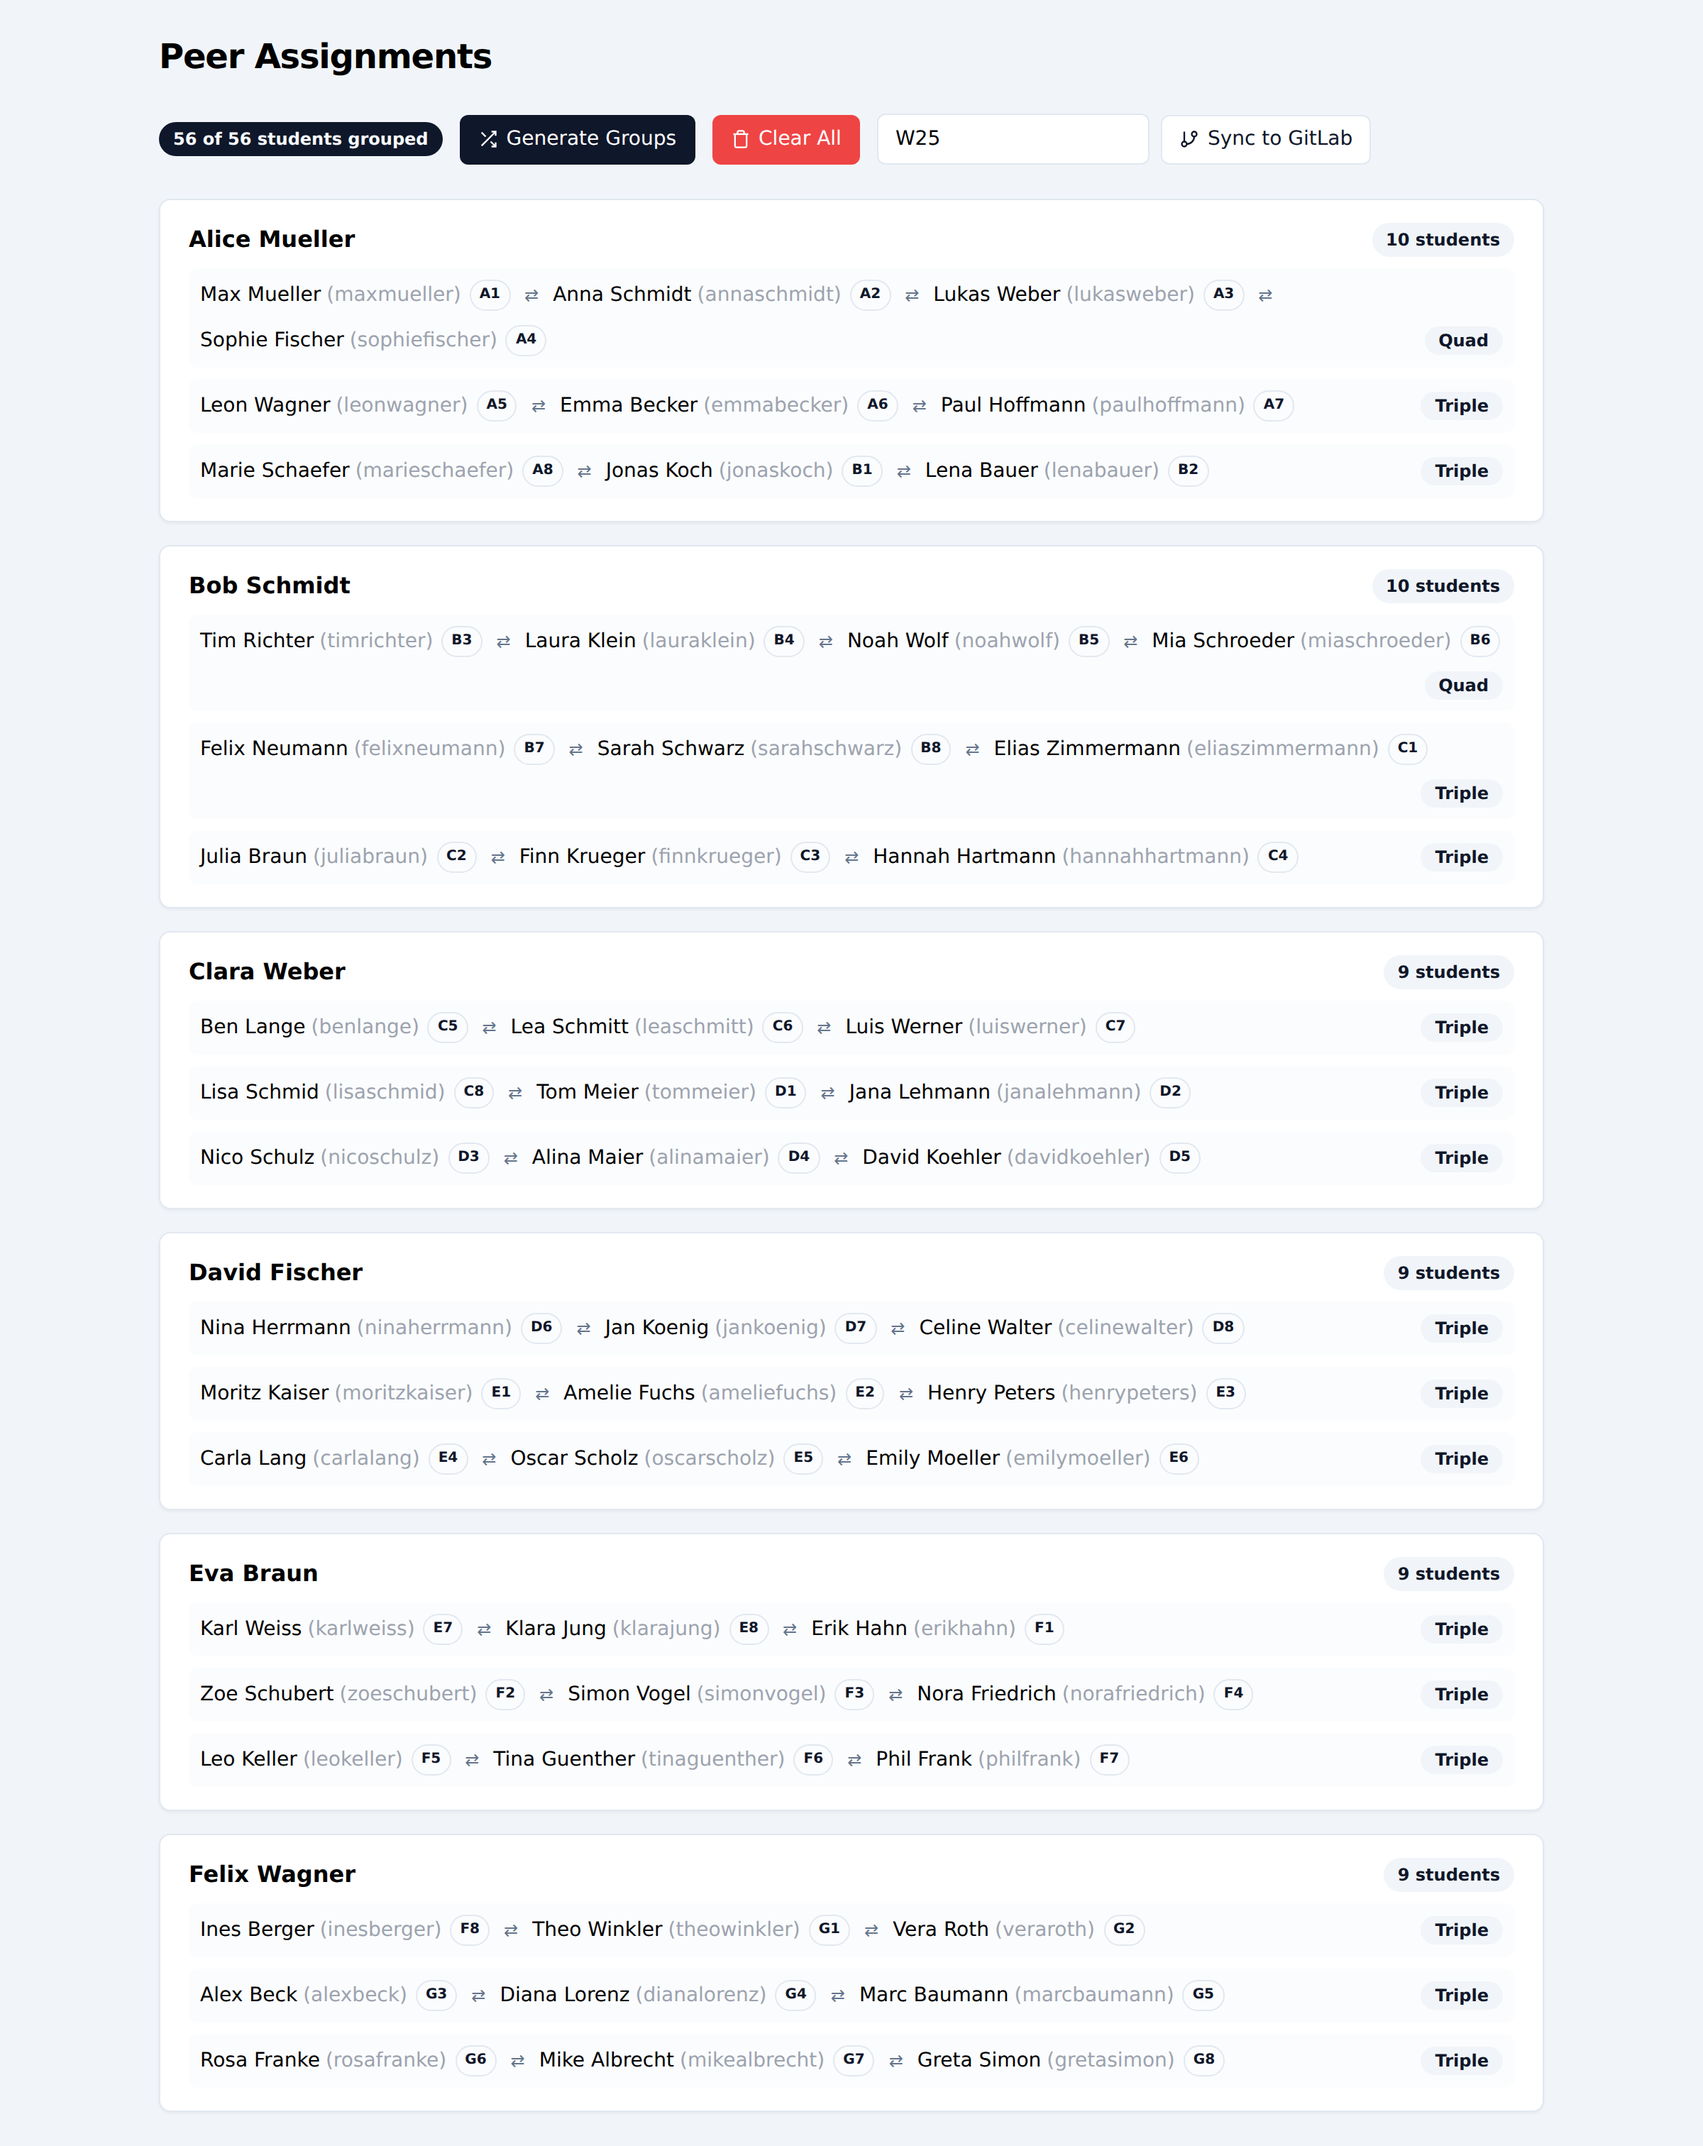
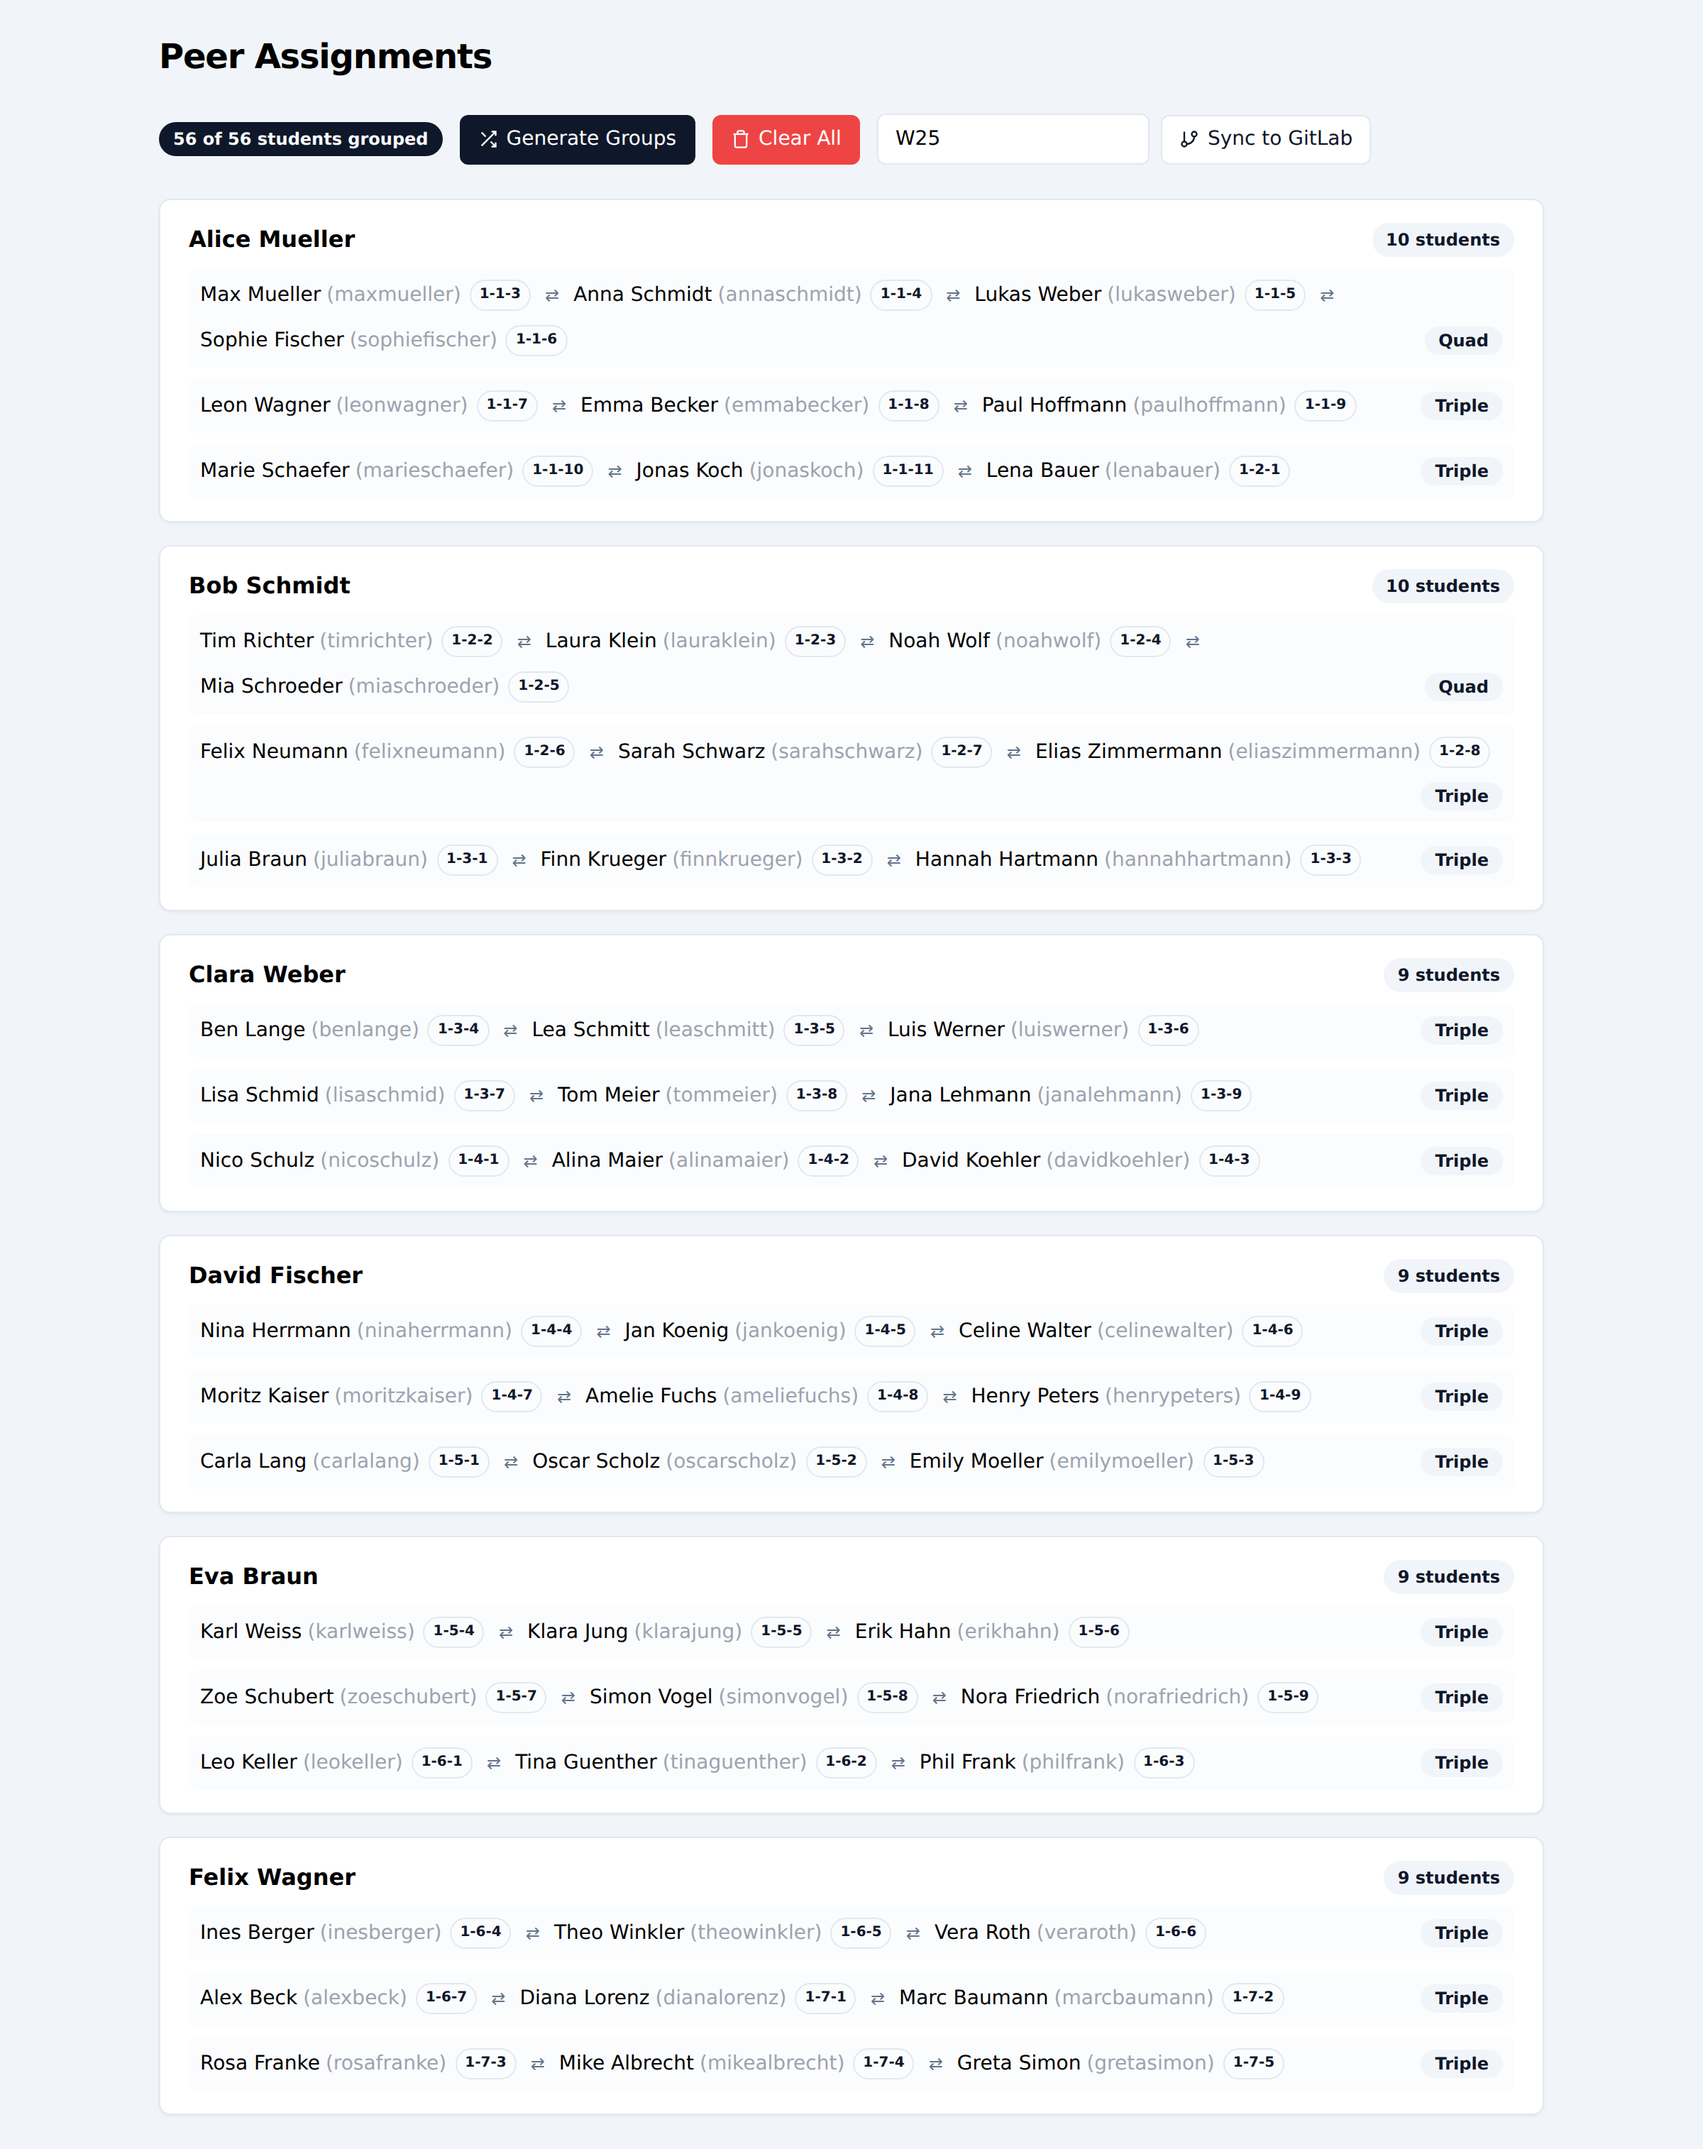
Update screenshots to Rechnerhalle layout, add empty state, default grid view
- Screenshots now use actual ROOM-ROW-POSITION seat names (1-1-3, 1-3-4, etc.)
- Seat grid screenshot matches real Rechnerhalle layout (9 rows, irregular positions)
- Added empty state screenshot showing peer assignment before generation
- Default seat visualization to grid view (more useful than empty table view)

diff --git a/client/src/introCourse/pages/SeatAssignment/SeatAssignmentPage.tsx b/client/src/introCourse/pages/SeatAssignment/SeatAssignmentPage.tsx
@@ -22,7 +22,7 @@ import { useGetParticipationsWithDevProfile } from './hooks/useGetParticipationW
 
 export const SeatAssignmentPage = () => {
   const { phaseId } = useParams<{ phaseId: string }>()
-  const [viewMode, setViewMode] = useState<'table' | 'grid'>('table')
+  const [viewMode, setViewMode] = useState<'table' | 'grid'>('grid')
 
   // Data fetching
   const {
